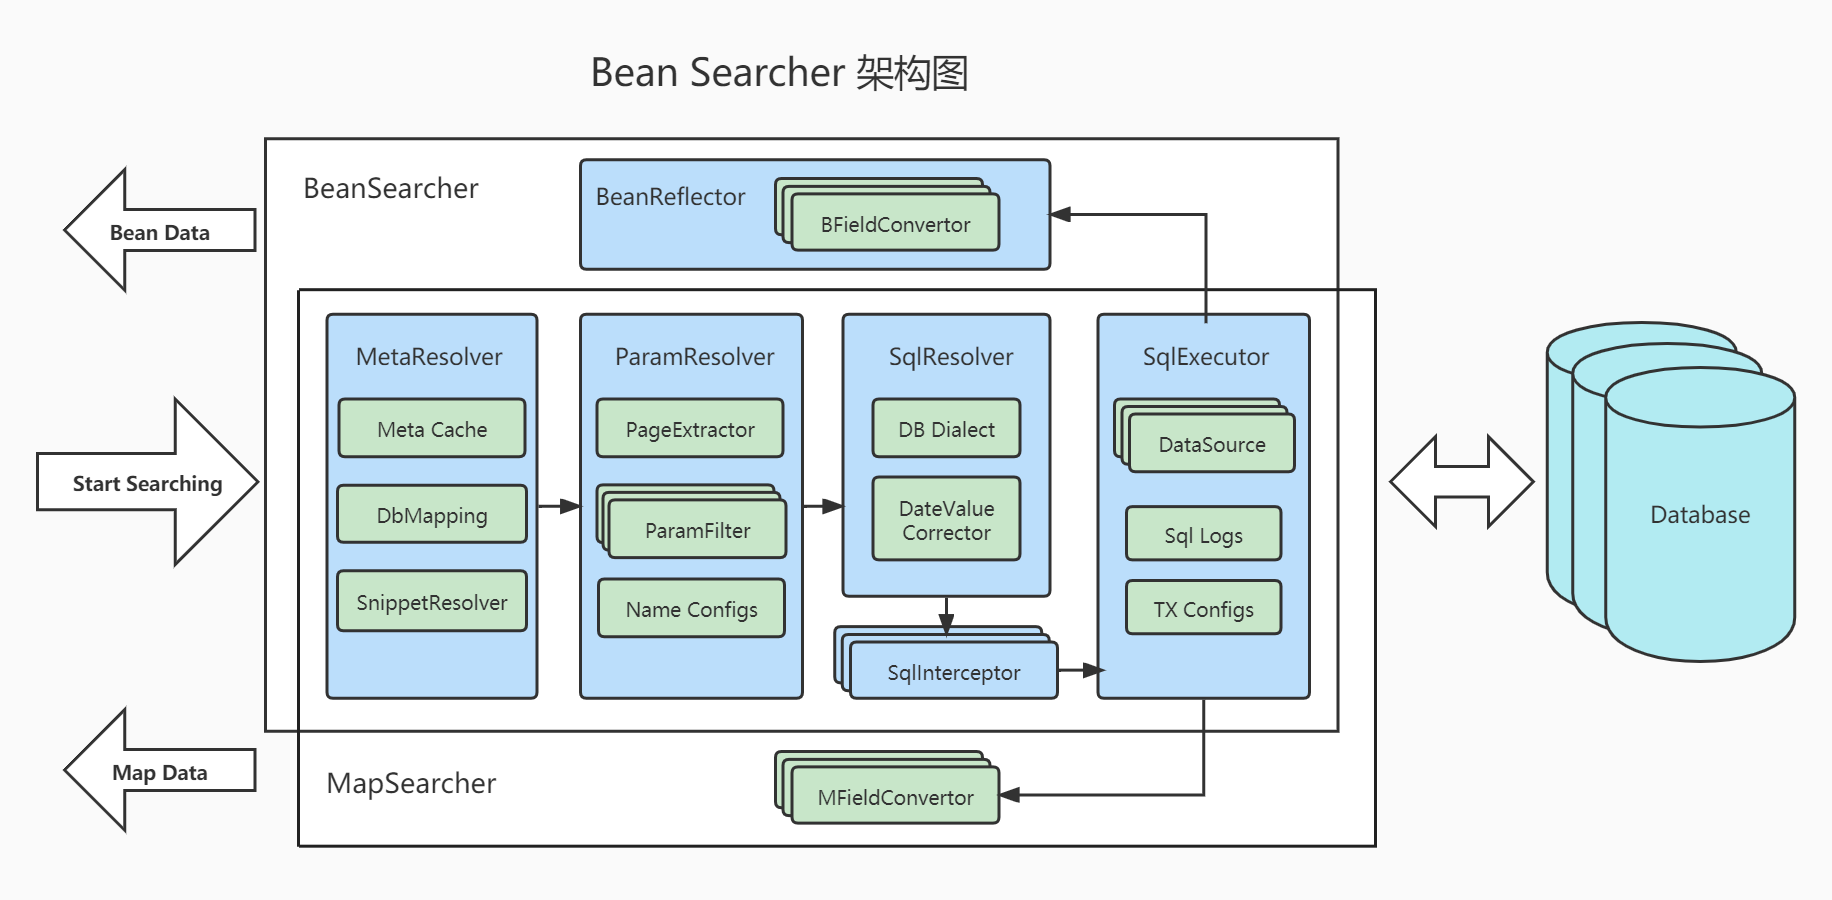
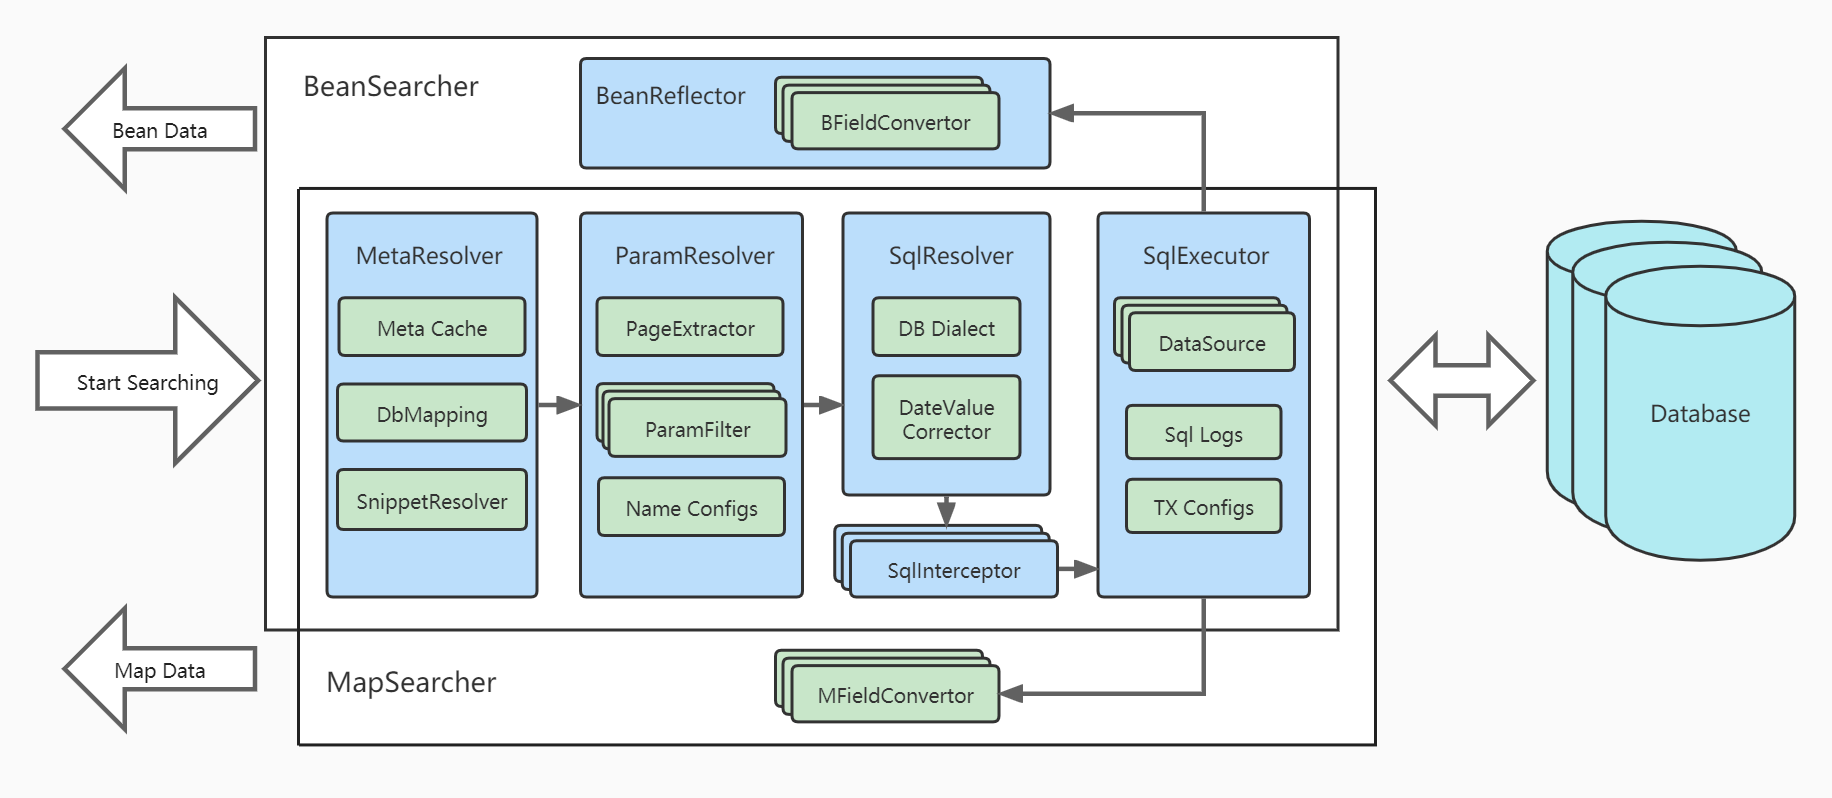
README.md

diff --git a/README.md b/README.md
@@ -7,19 +7,24 @@
 * 文档：https://searcher.ejlchina.com/
 * 掘金手把手入门：https://juejin.cn/post/7027733039299952676
 * 更新日志：[CHANGELOG](./CHANGELOG.md)
+* 架构图：
 
 ![](./assets/architecture.jpg)
 
-### ⛳ v3.x 重大更新
+### ✨ 特性
 
-* 支持 **无注解**
-* 支持 **Select 指定字段**
-* 支持 **条件与运算符的约束**
-* 支持 **参数过滤器**
+* 支持 **实体多表映射**
+* 支持 **动态字段运算符**
+* 支持 **分组聚合 查询**
+* 支持 **Select | Where | From 子查询**
+* 支持 **实体类嵌入参数**
 * 支持 **字段转换器**
 * 支持 **Sql 拦截器**
-* 支持 **多数据源**
-* 支持 **JDK 9+ 的模块机制**
+* 支持 **数据库 Dialect 扩展**
+* 支持 **多数据源 与 动态数据源**
+* 支持 **注解缺省 与 自定义**
+* 支持 **JDK 模块机制**
+* 等等
 
 ### ⁉为什么用
 
@@ -79,7 +84,7 @@ public class UserController {
 * `/user/index?selectExclude=dateCreated`
   - 检索 所有用户，默认分页，但不查询 dateCreated  字段
 
-### ✨ 独创动态字段运算符，检索方式随心所欲
+### ✨ 编码式构建检索参数
 
 ```java
 Map<String, Object> params = MapUtils.builder()
